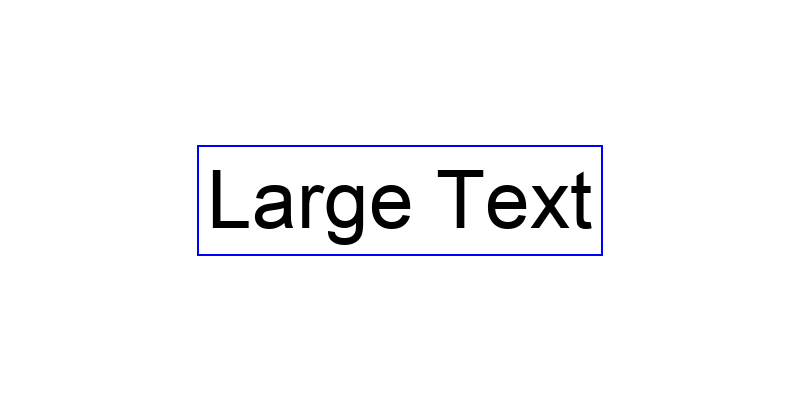
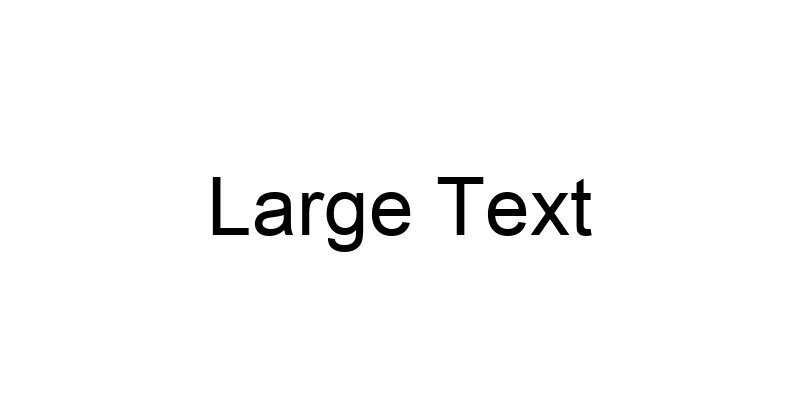
update images

diff --git a/tools/generate_test_images.py b/tools/generate_test_images.py
@@ -13,15 +13,18 @@ def create_test_image(m_text, m_font_size, bounding_box_color, save_path):
         font = ImageFont.load_default()  # Use default if no font available
 
     # Draw text
-    text_width, text_height = draw.textsize(m_text, font=font)
+    text_bbox = draw.textbbox((0, 0), m_text, font=font)  # Returns (left, top, right, bottom)
+    text_width = text_bbox[2] - text_bbox[0]
+    text_height = text_bbox[3] - text_bbox[1]
     text_position = ((width - text_width) // 2, (height - text_height) // 2)
     draw.text(text_position, m_text, fill="black", font=font)
 
-    # Draw bounding box around text
+    # Calculate bounding box and print it
     bbox = [text_position[0] - 10, text_position[1] - 10,  # Top-left
             text_position[0] + text_width + 10, text_position[1] + text_height + 10  # Bottom-right
-    ]
-    draw.rectangle(bbox, outline=bounding_box_color, width=2)
+            ]
+    print(f'Bounding box for "{m_text}": {bbox}')
+    print(f'Width: {text_width}, Height: {text_height}')
 
     # Save the image
     image.save(save_path)
